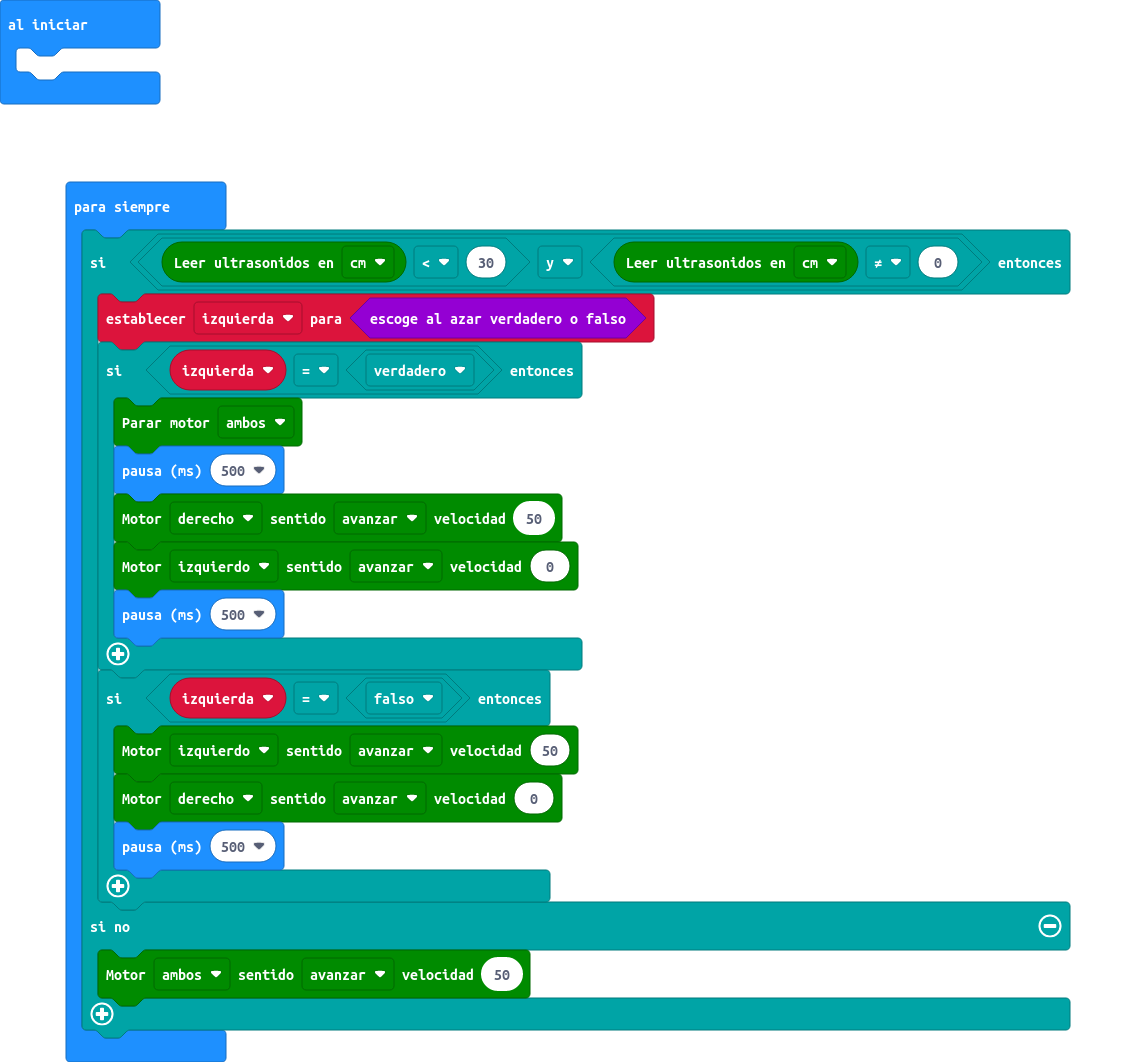
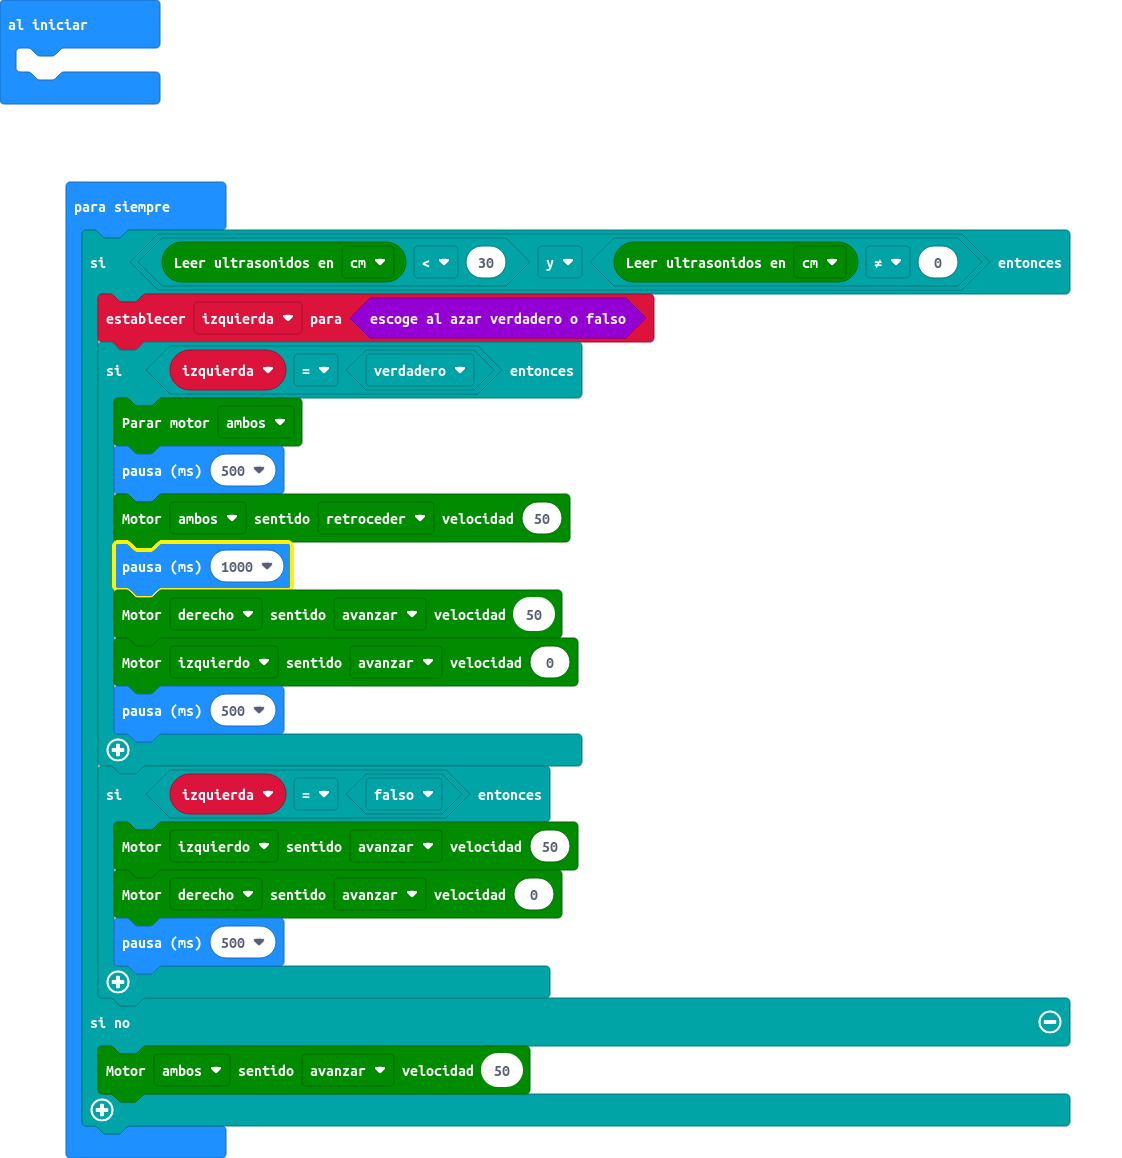
Actualizar main.blocks, main.ts

Changed region(s): [[0.0624, 0.1554, 0.967, 0.9944], [0.0, 0.0, 0.156, 0.1243]]

diff --git a/main.ts b/main.ts
@@ -5,6 +5,8 @@ basic.forever(function () {
         if (izquierda == true) {
             maqueen.motorStop(maqueen.Motors.All)
             basic.pause(500)
+            maqueen.motorRun(maqueen.Motors.All, maqueen.Dir.CCW, 50)
+            basic.pause(1000)
             maqueen.motorRun(maqueen.Motors.M2, maqueen.Dir.CW, 50)
             maqueen.motorRun(maqueen.Motors.M1, maqueen.Dir.CW, 0)
             basic.pause(500)
